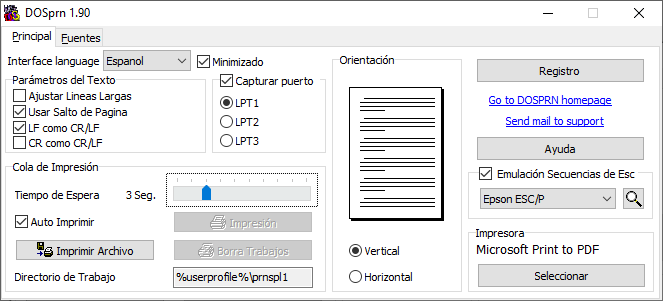
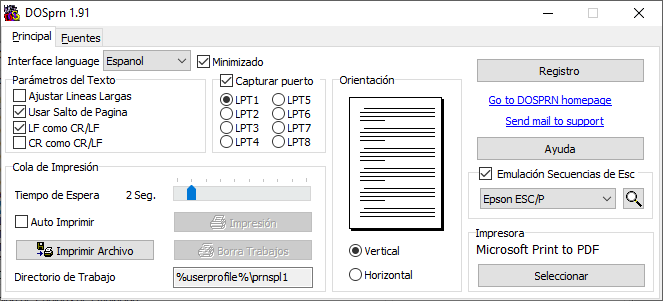
1.91

diff --git a/download.htm b/download.htm
@@ -1,5 +1,5 @@
 <!DOCTYPE HTML PUBLIC "-//W3C//DTD HTML 4.0 Transitional//EN">
-<HTML><HEAD><TITLE>DOSPRN 1.90 download now</TITLE>
+<HTML><HEAD><TITLE>DOSPRN 1.91 download now</TITLE>
 <META http-equiv=Content-Language content=en-us>
 <META http-equiv=Content-Type content="text/html; charset=utf-8">
 <META name=Keywords content="dos print usb, dos print download, dos printer, dos usb driver, dos print command, DOS, printers, printer USB, LPT, DOS program" >
@@ -19,7 +19,7 @@
 <TABLE cellSpacing=0 cellPadding=6 width=50% style="max-width:640px" border=0>
   <TR>
     <TD width=100%>
-      <div style="float:left"><IMG src="images/logo.gif" ALT="DOS USB print under Windows 10, Windows 8, Windows 7, Windows XP, Windows2000, Windows98"> <font size="5"><b>&nbsp;DOSPRN&nbsp;1.90&nbsp;</b></font></div>
+      <div style="float:left"><IMG src="images/logo.gif" ALT="DOS USB print under Windows 10, Windows 8, Windows 7, Windows XP, Windows2000, Windows98"> <font size="5"><b>&nbsp;DOSPRN&nbsp;1.91&nbsp;</b></font></div>
   
       <table border="2" bgcolor="#C0C0C0" cellpadding="4" cellspacing="4">
         <tr>
@@ -52,9 +52,9 @@
       <p>DOSPRN es un shareware completamente funcional. Está diseñado para admitir la impresión desde aplicaciones DOS. Puede hacer uso de todas las <b>características</b> de DOSPRN antes de comprar. Debe estar convencido de que DOSPRN puede resolver su problema con la impresión de DOS antes de <a href="order.htm">comprar</a>.</p> <p>Le recomendamos encarecidamente que revise a fondo el <a href="readme.htm">manual de DOSPRN</a> y nuestras <a href="faq.htm">FAQ</a>.<br>
       <br>
 
-      <a href="https://dosprn.com/DOSprn190.exe">
+      <a href="https://dosprn.com/DOSprn191.exe">
 
-      <center>Clic aquí y descargue el archivo <i>DOSprn190.exe (1.7 Mb)</i></a></center>
+      <center>Clic aquí y descargue el archivo <i>DOSprn191.exe (1.7 Mb)</i></a></center>
 		<br>
       <br>
       DOSPRN le recordará el registro cada vez que imprima un informe desde su aplicación DOS. Si tiene alguna pregunta sobre la DOSPRN, no dude en <a href="mailto:support&#064dosprn.com">contactarnos</a>.</p>
@@ -73,7 +73,7 @@
 <!-- Google Code for pageview Conversion Page -->
 <script language="JavaScript" type="text/javascript">
 <!--
-var google_conversion_id = 1059918902;
+var google_conversion_id = 105991.912;
 var google_conversion_language = "en_US";
 var google_conversion_format = "1";
 var google_conversion_color = "CCCCCC";
@@ -86,7 +86,7 @@ var google_conversion_label = "pageview";
 <script language="JavaScript" src="https://www.googleadservices.com/pagead/conversion.js">
 </script>
 <noscript>
-<img height=1 width=1 border=0 src="https://www.googleadservices.com/pagead/conversion/1059918902/imp.gif?value=1.0&label=pageview&script=0">
+<img height=1 width=1 border=0 src="https://www.googleadservices.com/pagead/conversion/105991.912/imp.gif?value=1.0&label=pageview&script=0">
 </noscript>
 
 

diff --git a/readme.htm b/readme.htm
@@ -1,5 +1,5 @@
 <!DOCTYPE HTML PUBLIC "-//W3C//DTD HTML 4.0 Transitional//EN">
-<HTML><HEAD><TITLE>DOSPRN 1.90 manual</TITLE>
+<HTML><HEAD><TITLE>DOSPRN 1.91 manual</TITLE>
 <META http-equiv=Content-Type content="text/html; charset=utf-8">
 <META http-equiv=Content-Language content=en-us>
 <META name=Keywords  content="DOS, printers, program, print, printer, USB, programs, LPT, DOS program, software, national, language, internanional" >
@@ -19,7 +19,7 @@
 <TABLE cellSpacing=0 cellPadding=6 width=50% style="max-width:640px" border=0>
   <TR>
     <TD width=100%>
-      <div style="float:left"><IMG src="images/logo.gif" ALT="DOS USB print under Windows 8, Windows 7, Windows XP, Windows2000, Windows98"> <font size="5"><b>&nbsp;DOSPRN&nbsp;1.90&nbsp;</b></font></div>
+      <div style="float:left"><IMG src="images/logo.gif" ALT="DOS USB print under Windows 8, Windows 7, Windows XP, Windows2000, Windows98"> <font size="5"><b>&nbsp;DOSPRN&nbsp;1.91&nbsp;</b></font></div>
   
       <table border="2" bgcolor="#C0C0C0" cellpadding="4" cellspacing="4">
         <tr>
@@ -54,7 +54,7 @@
       <P align=justify>DOSPRN se distribuye como <B>Shareware.</B> Puede aprender a usar DOSPRN durante el tiempo de prueba. Después de este período, debe registrar su copia o eliminarla completamente de su computadora con la utilidad de desinstalación en el Grupo de programas de la DOSPRN.</P>
       <H3 align=justify>Instalación</H3>
       <P align=justify>Descargue y ejecute el archivo autoextraíble <I>
-      <a href="https://dosprn.com/DOSprn190.exe">DOSprn190.exe</a></I>. 
+      <a href="https://dosprn.com/DOSprn191.exe">DOSprn191.exe</a></I>. 
       Se le harán algunas preguntas simples. Durante la instalación, DOSPRN copia todos los archivos y accesos directos necesarios en su computadora.</P>
       <H3 align=justify>Inicio del programa</H3>Puede iniciar DOSPRN haciendo clic en un acceso directo en su escritorio o en la carpeta 'Inicio' (en caso de que haya seleccionado esta opción durante la instalación). Después de iniciar DOSPRN, puede encontrar su icono en el área de la bandeja (cerca del reloj del sistema, generalmente en la esquina inferior derecha). <IMG src="images/trayw8.gif" ALT="Display icon and progress of printing in tray area" align=absMiddle border=0> DOSPRN listo para trabajar ahora. 
 

diff --git a/news.htm b/news.htm
@@ -1,5 +1,5 @@
 <!DOCTYPE HTML PUBLIC "-//W3C//DTD HTML 4.0 Transitional//EN">
-<HTML><HEAD><TITLE>DOSPRN 1.90 whats new section</TITLE>
+<HTML><HEAD><TITLE>DOSPRN 1.91 whats new section</TITLE>
 <META http-equiv=Content-Language content=en-us>
 <META http-equiv=Content-Type content="text/html; charset=utf-8">
 <META name=Keywords  content="dos print news, dos printer driver, dos printer, dos usb driver, dos print command, DOS, printers, program, print, printer, USB, programs, LPT, DOS program, software, national, language, internanional" >
@@ -20,7 +20,7 @@
 <TABLE cellSpacing=0 cellPadding=6 width=50% style="max-width:640px" border=0>
   <TR>
     <TD width=100%>
-      <div style="float:left"><IMG src="images/logo.gif" ALT="DOS USB print under Windows 8, Windows 7, Windows XP, Windows2000, Windows98"> <font size="5"><b>&nbsp;DOSPRN&nbsp;1.90&nbsp;</b></font></div>
+      <div style="float:left"><IMG src="images/logo.gif" ALT="DOS USB print under Windows 8, Windows 7, Windows XP, Windows2000, Windows98"> <font size="5"><b>&nbsp;DOSPRN&nbsp;1.91&nbsp;</b></font></div>
   
       <table border="2" bgcolor="#C0C0C0" cellpadding="4" cellspacing="4">
         <tr>
@@ -50,6 +50,11 @@
   <TR>
     <TD width="100%">
       <H3>Lo que es nuevo</H3>
+      <P><B>Version 1.91</B></P>
+      + soporte adicional puertos paralelos extendidos LPT4..LPT8<br>
+      * modo silencioso fijo para aplicaciones DOS de pantalla completa<br>
+      * opción de línea de comando de "dialog" fija<br>
+      * pequeñas correcciones de errores<br>
       <P><B>Version 1.90</B></P>
       * corrección de errores para computadoras antiguas con hardware LPTx<br>
       * Se admiten versiones antiguas de DOSBOX y vDos<br>

diff --git a/vox.htm b/vox.htm
@@ -1,5 +1,5 @@
 <!DOCTYPE HTML PUBLIC "-//W3C//DTD HTML 4.0 Transitional//EN">
-<HTML><HEAD><TITLE>DOSPRN 1.90 testimonials and user reviews</TITLE>
+<HTML><HEAD><TITLE>DOSPRN 1.91 testimonials and user reviews</TITLE>
 <META http-equiv=Content-Language content=en-us>
 <META http-equiv=Content-Type content="text/html; charset=utf-8">
 <META name=Description content="What spoke ordinary users and writers in technical reviews about DOSPRN software">
@@ -20,7 +20,7 @@
 <TABLE cellSpacing=0 cellPadding=6 width=50% style="max-width:640px" border=0>
   <TR>
     <TD width=100%>
-      <div style="float:left"><IMG src="images/logo.gif" ALT="DOS USB print under Windows 8, Windows 7, Windows XP, Windows2000, Windows98"> <font size="5"><b>&nbsp;DOSPRN&nbsp;1.90&nbsp;</b></font></div>
+      <div style="float:left"><IMG src="images/logo.gif" ALT="DOS USB print under Windows 8, Windows 7, Windows XP, Windows2000, Windows98"> <font size="5"><b>&nbsp;DOSPRN&nbsp;1.91&nbsp;</b></font></div>
   
       <table border="2" bgcolor="#C0C0C0" cellpadding="4" cellspacing="4">
         <tr>
@@ -149,7 +149,7 @@
           </td>
         </tr>
         <tr>
-          <td><i>Francis G. McCloskey &lt;FrFrancis&#64;OhSaratoga.com&gt;</i><p>&quot;...A small bunch of us are still using DOSprn 1.90 with out DOS EnableOA program and think it's 
+          <td><i>Francis G. McCloskey &lt;FrFrancis&#64;OhSaratoga.com&gt;</i><p>&quot;...A small bunch of us are still using DOSprn 1.91 with out DOS EnableOA program and think it's 
 	  the best DOS to Windows printers program out there..........&quot;</p>
           <hr width="90%" color="#008000">
           </td>

diff --git a/order.htm b/order.htm
@@ -1,5 +1,5 @@
 <!DOCTYPE HTML PUBLIC "-//W3C//DTD HTML 4.0 Transitional//EN">
-<HTML><HEAD><TITLE>Order DOSPRN 1.90</TITLE>
+<HTML><HEAD><TITLE>Order DOSPRN 1.91</TITLE>
 <META http-equiv=Content-Language content=en-us>
 <META http-equiv=Content-Type content="text/html; charset=utf-8">
 <META name=Keywords content="DOS print order, DOS2usb purchase, DOS printers, program, print, printer, DOS USB, programs, LPT, DOS program, DOS software">
@@ -20,7 +20,7 @@
 <TABLE cellSpacing=0 cellPadding=6 width=50% style="max-width:640px" border=0>
   <TR>
     <TD width=100%>
-      <div style="float:left"><IMG src="images/logo.gif" ALT="DOS USB print under Windows 8, Windows 7, Windows XP, Windows2000, Windows98"> <font size="5"><b>&nbsp;DOSPRN&nbsp;1.90&nbsp;</b></font></div>
+      <div style="float:left"><IMG src="images/logo.gif" ALT="DOS USB print under Windows 8, Windows 7, Windows XP, Windows2000, Windows98"> <font size="5"><b>&nbsp;DOSPRN&nbsp;1.91&nbsp;</b></font></div>
   
       <table border="2" bgcolor="#C0C0C0" cellpadding="4" cellspacing="4">
         <tr>
@@ -66,7 +66,7 @@ Después del vencimiento del período de prueba, debe registrar este programa.</
 
       <P>
       If your DOSPRN's trial period has been expired now you can download and install
-      a <a href="https://dosprn.com/DOSprn190.exe">special "vacation" build</a> of DOSPRN 1.90. The trial period will be 
+      a <a href="https://dosprn.com/DOSprn191.exe">special "vacation" build</a> of DOSPRN 1.91. The trial period will be 
       expanded up to August, 1.
       </P>
 -->

diff --git a/dosprint.htm b/dosprint.htm
@@ -22,7 +22,7 @@
 <TABLE cellSpacing=0 cellPadding=6 width=50% style="max-width:640px" border=0>
   <TR>
     <TD width=100%>
-      <div style="float:left"><IMG src="images/logo.gif" ALT="DOS USB print under Windows 8, Windows 7, Windows XP, Windows2000, Windows98"> <font size="5"><b>&nbsp;DOSPRN&nbsp;1.90&nbsp;</b></font></div>
+      <div style="float:left"><IMG src="images/logo.gif" ALT="DOS USB print under Windows 8, Windows 7, Windows XP, Windows2000, Windows98"> <font size="5"><b>&nbsp;DOSPRN&nbsp;1.91&nbsp;</b></font></div>
   
       <table border="2" bgcolor="#C0C0C0" cellpadding="4" cellspacing="4">
         <tr>
@@ -57,7 +57,7 @@
       <P>DOSPRN ayuda a extender la vida de los viejos programas de DOS. Este programa le permite imprimir informes desde un buen programa antiguo de DOS en <b>nuevas impresoras</b> independientemente de sus tipos (Sí, USB y impresoras de red, servidores de impresión e impresoras PDF también).</P>
       <P align=center><IMG height=150 src="images/fontsw8.png" ALT="Windows TrueType fonts selectable" width=291></P>
       <P>DOSPRN se distribuye como shareware. Descargalo <I><B>
-      <A href="https://dosprn.com/DOSprn190.exe">
+      <A href="https://dosprn.com/DOSprn191.exe">
       AHORA</A></B></I> y haga que DOS imprima sin dos2usb libre.
       </P></TD></TR>
   <TR>

diff --git a/dos-print.htm b/dos-print.htm
@@ -23,7 +23,7 @@
 <TABLE cellSpacing=0 cellPadding=6 width=50% style="max-width:640px" border=0>
   <TR>
     <TD width=100%>
-      <div style="float:left"><IMG src="images/logo.gif" ALT="DOS USB print under Windows 8, Windows 7, Windows XP, Windows2000, Windows98"> <font size="5"><b>&nbsp;DOSPRN&nbsp;1.90&nbsp;</b></font></div>
+      <div style="float:left"><IMG src="images/logo.gif" ALT="DOS USB print under Windows 8, Windows 7, Windows XP, Windows2000, Windows98"> <font size="5"><b>&nbsp;DOSPRN&nbsp;1.91&nbsp;</b></font></div>
   
       <table border="2" bgcolor="#C0C0C0" cellpadding="4" cellspacing="4">
         <tr>
@@ -58,7 +58,7 @@
       <P>DOSPRN ayuda a extender la vida de los viejos programas de DOS. Este programa le permite imprimir informes desde un buen programa antiguo de DOS en <b>impresoras nuevas</b> independientemente de sus tipos (Sí, USB e impresoras de red, servidores de impresión e impresoras PDF también).</P>
       <P align=center><IMG height=150 src="images/fontsw8.png" ALT="Windows TrueType fonts selectable" width=291></P>
       <P>DOSPRN se distribuye como shareware. Descargalo <I><B>
-      <A href="https://dosprn.com/DOSprn190.exe">
+      <A href="https://dosprn.com/DOSprn191.exe">
       AHORA</A></B></I> y haga que DOS imprima libre.
       </P></TD></TR>
   <TR>

diff --git a/languages.htm b/languages.htm
@@ -3,7 +3,7 @@
 <meta http-equiv="Content-Type" content="text/html; charset=utf-8">
 <meta name="Keywords" content="print in dos, dos printer driver, dos printer, dos usb driver, dos print command, DOS, printers, program, print, printer, USB, programs, LPT, DOS program, software, national, language, internanional">
 <meta name="Description" content="DOSPRN allow to use your old favorite DOS program with new printers independently of their types (yes, and USB also !)">
-<TITLE>DOSPRN 1.90 languages supported</TITLE>
+<TITLE>DOSPRN 1.91 languages supported</TITLE>
 <meta name=viewport content="width=device-width, initial-scale=1">
 
 <script type="text/javascript">
@@ -20,7 +20,7 @@
 <TABLE cellSpacing=0 cellPadding=6 width=50% style="max-width:640px" border=0>
   <TR>
     <TD width=100%>
-      <div style="float:left"><IMG src="images/logo.gif" ALT="DOS USB print under Windows 8, Windows 7, Windows XP, Windows2000, Windows98"> <font size="5"><b>&nbsp;DOSPRN&nbsp;1.90&nbsp;</b></font></div>
+      <div style="float:left"><IMG src="images/logo.gif" ALT="DOS USB print under Windows 8, Windows 7, Windows XP, Windows2000, Windows98"> <font size="5"><b>&nbsp;DOSPRN&nbsp;1.91&nbsp;</b></font></div>
   
       <table border="2" bgcolor="#C0C0C0" cellpadding="4" cellspacing="4">
         <tr>

diff --git a/sequences.htm b/sequences.htm
@@ -1,5 +1,5 @@
 <!DOCTYPE HTML PUBLIC "-//W3C//DTD HTML 4.0 Transitional//EN">
-<HTML><HEAD><TITLE>DOSPRN 1.90 supported ESC sequences</TITLE>
+<HTML><HEAD><TITLE>DOSPRN 1.91 supported ESC sequences</TITLE>
 <META http-equiv=Content-Type content="text/html; charset=utf-8">
 <META name=Keywords  content="dos printer driver, dos printer, dos usb driver, dos print command, DOS, printers, program, print, printer, USB, programs, LPT, DOS program, software, national, language, internanional" >
 <META name=Description  content="DOSPRN allow to use your old favorite DOS program with new printers independently of their types (yes, and USB also !)" >
@@ -19,7 +19,7 @@
 <TABLE cellSpacing=0 cellPadding=6 width=50% style="max-width:640px" border=0>
 <TR>
 	<TD width=100%>
-	<div style="float:left"><IMG src="images/logo.gif" ALT="DOS USB print under Windows 8, Windows 7, Windows XP, Windows2000, Windows98"> <font size="5"><b>&nbsp;DOSPRN&nbsp;1.90&nbsp;</b></font></div>
+	<div style="float:left"><IMG src="images/logo.gif" ALT="DOS USB print under Windows 8, Windows 7, Windows XP, Windows2000, Windows98"> <font size="5"><b>&nbsp;DOSPRN&nbsp;1.91&nbsp;</b></font></div>
   
 	<table border="2" bgcolor="#C0C0C0" cellpadding="4" cellspacing="4">
         <tr>

diff --git a/codepages.htm b/codepages.htm
@@ -1,4 +1,4 @@
-<HTML><HEAD><TITLE>DOSPRN 1.90 codepages support</TITLE>
+<HTML><HEAD><TITLE>DOSPRN 1.91 codepages support</TITLE>
 <META http-equiv=Content-Type content="text/html; charset=utf-8">
 <META name=Keywords content="dos printer driver, dos code, dos codepages, dos codepages, dos printer, dos usb driver, dos print command, DOS, printers, program, print, printer, USB, programs, LPT, DOS program, software, national, language, internanional">
 <META name=Description content="DOSPRN allow to use your old favorite DOS program with new printers independently of their types (yes, and USB also !)">
@@ -17,7 +17,7 @@
 <TABLE cellSpacing=0 cellPadding=6 width=50% style="max-width:640px" border=0>
   <TR>
     <TD width=100%>
-      <div style="float:left"><IMG src="images/logo.gif" ALT="DOS USB print under Windows 8, Windows 7, Windows XP, Windows2000, Windows98"> <font size="5"><b>&nbsp;DOSPRN&nbsp;1.90&nbsp;</b></font></div>
+      <div style="float:left"><IMG src="images/logo.gif" ALT="DOS USB print under Windows 8, Windows 7, Windows XP, Windows2000, Windows98"> <font size="5"><b>&nbsp;DOSPRN&nbsp;1.91&nbsp;</b></font></div>
   
       <table border="2" bgcolor="#C0C0C0" cellpadding="4" cellspacing="4">
         <tr>

diff --git a/inline-qrcode.htm b/inline-qrcode.htm
@@ -1,5 +1,5 @@
 <!DOCTYPE HTML PUBLIC "-//W3C//DTD HTML 4.0 Transitional//EN">
-<HTML><HEAD><TITLE>DOSPRN 1.90 inline qrcode allows to create QR-codes</TITLE>
+<HTML><HEAD><TITLE>DOSPRN 1.91 inline qrcode allows to create QR-codes</TITLE>
 <META http-equiv=Content-Language content=en-us>
 <META http-equiv=Content-Type content="text/html; charset=utf-8">
 <META name=Keywords  content="inline qrcode, DOS report bitmap, dos print command, DOS, printers, program, print, printer, USB, programs, LPT, DOS program, software, national, language, qr-code" >
@@ -20,7 +20,7 @@
 <TABLE cellSpacing=0 cellPadding=6 width=50% style="max-width:640px" border=0>
   <TR>
     <TD width=100%>
-      <div style="float:left"><IMG src="images/logo.gif" ALT="DOS USB print under Windows 11, Windows 10, Windows 8, Windows 7, Windows XP, Windows2000, Windows98"> <font size="5"><b>&nbsp;DOSPRN&nbsp;1.90&nbsp;</b></font></div>
+      <div style="float:left"><IMG src="images/logo.gif" ALT="DOS USB print under Windows 11, Windows 10, Windows 8, Windows 7, Windows XP, Windows2000, Windows98"> <font size="5"><b>&nbsp;DOSPRN&nbsp;1.91&nbsp;</b></font></div>
   
       <table border="2" bgcolor="#C0C0C0" cellpadding="4" cellspacing="4">
         <tr>

diff --git a/dos-usb.htm b/dos-usb.htm
@@ -21,7 +21,7 @@
 <TABLE cellSpacing=0 cellPadding=6 width=50% style="max-width:640px" border=0>
   <TR>
     <TD width=100%>
-      <div style="float:left"><IMG src="images/logo.gif" ALT="DOS USB print under Windows 8, Windows 7, Windows XP, Windows2000, Windows98"> <font size="5"><b>&nbsp;DOSPRN&nbsp;1.90&nbsp;</b></font></div>
+      <div style="float:left"><IMG src="images/logo.gif" ALT="DOS USB print under Windows 8, Windows 7, Windows XP, Windows2000, Windows98"> <font size="5"><b>&nbsp;DOSPRN&nbsp;1.91&nbsp;</b></font></div>
   
       <table border="2" bgcolor="#C0C0C0" cellpadding="4" cellspacing="4">
         <tr>
@@ -57,7 +57,7 @@
       <P align=center><IMG height=150 src="images/fontsw8.png" ALT="Windows TrueType fonts selectable" width=291></P>
       <P>La DOSPRN también será útil si hay un programa de DOS en su <b>lenguaje nativo</b>. Si su impresora USB no es compatible con su idioma en modo texto, DOSPRN será una buena ayuda.</P>
       <P>DOSPRN se distribuye como shareware. Descargalo <I><B>
-      <A href="https://dosprn.com/DOSprn190.exe">
+      <A href="https://dosprn.com/DOSprn191.exe">
       AHORA</A></B></I> y haga que DOS imprima sin dos2usb libre.
       </P></TD></TR>
   <TR>
